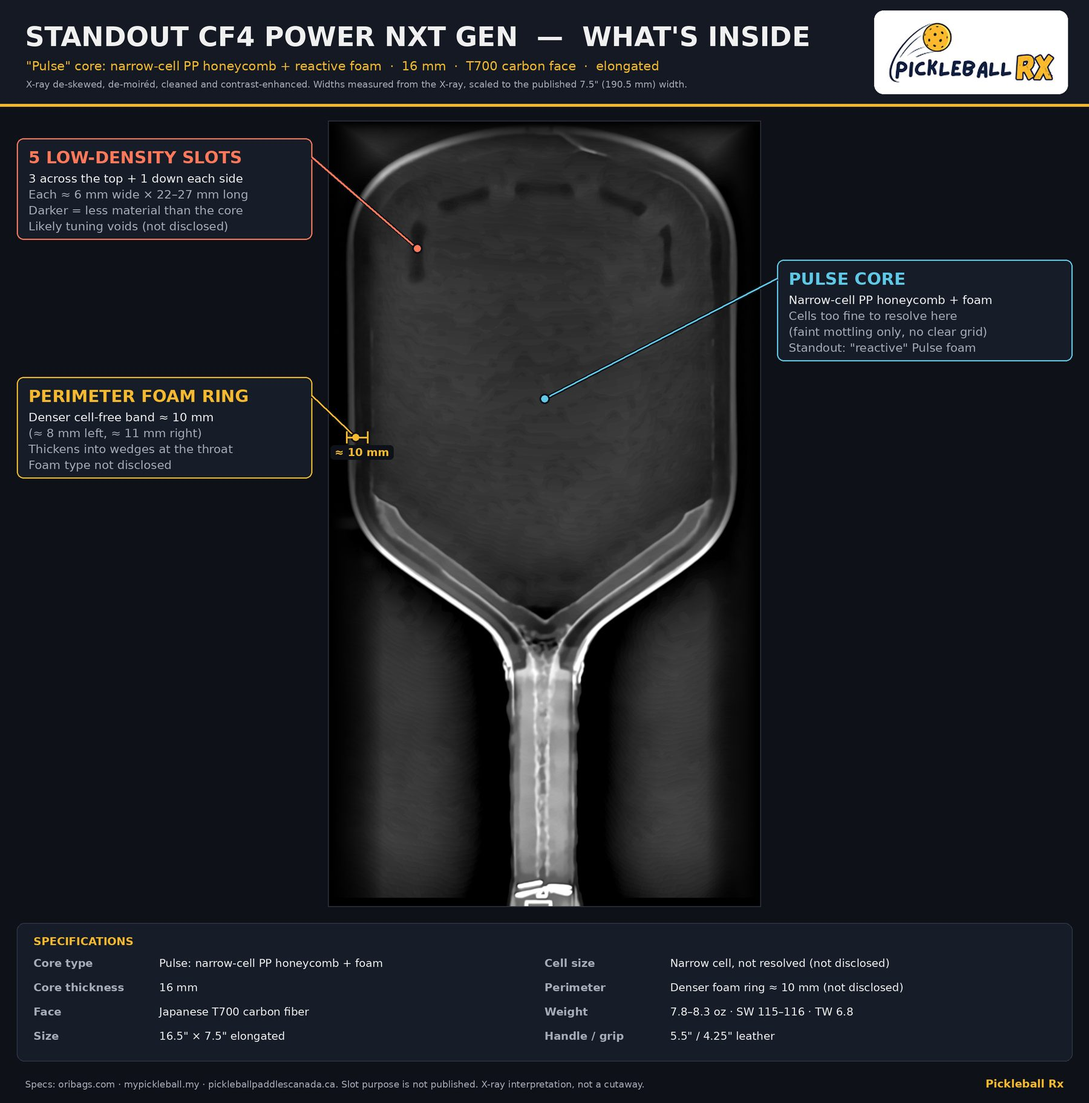
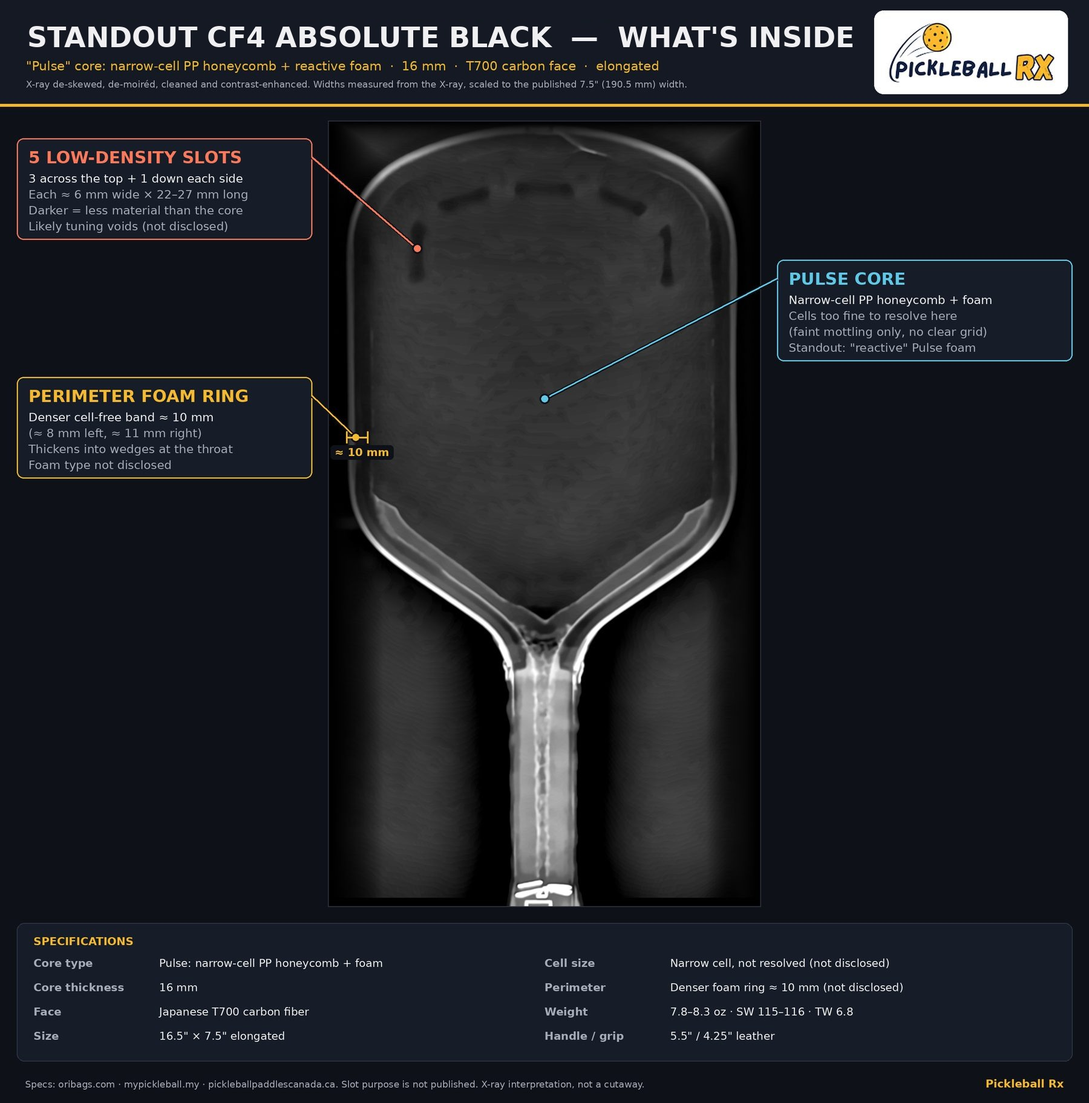
Rename Standout CF4 to CF4 Absolute Black and add its photo
Claude-Session: https://claude.ai/code/session_01XzsJoZS1BWgMRK1jmDZ5zc

Changed region(s): [[0.0311, 0.0, 0.7778, 0.0625]]

diff --git a/site/best.html b/site/best.html
@@ -38,7 +38,7 @@
   <p class="section-lead">Our favorite paddles by core type, picked by the Pickleball RX team after X-rays, microscope scans, spin tests and a lot of games. Tap any badge to see the lab results behind a pick.</p>
   <div class="chips"><a href="#epp">EPP foam</a><a href="#mpp">MPP foam</a><a href="#gen3">Gen 3</a><a href="#foreign">Foreign picks</a><a href="#canadian">Canadian picks</a><a href="#supa-senpai">Supasenpai's picks</a></div>
 </section>
-<section id="epp" style="padding-top:10px"><h2>EPP foam</h2><p class="section-lead">Paddles with an EPP foam core.</p><div class="lb-grid"><div class="lb-item"><div class="lb-rank">1</div><img class="lb-thumb" src="assets/paddles/gearbox-pressure-x-8e.jpg" alt="Gearbox Pressure X 8E" loading="lazy" style="object-fit:contain"><div style="min-width:0"><div class="muted" style="font-size:.75rem;text-transform:uppercase;letter-spacing:.06em;font-weight:700">Gearbox</div><div style="font-weight:800;font-size:1.05rem;line-height:1.25">Pressure X 8E</div><div class="badges" style="margin-top:6px"><a class="badge" href="xray/gearbox-pressure-x-8e.html">X-ray</a><a class="badge" href="spin.html#gearbox-pressure-xe">2,190 RPM</a><a class="badge" href="grit.html#gearbox-pressure-x-8e">Grit</a><a class="badge" href="specs.html#gearbox-8e">Specs</a></div></div></div><div class="lb-item"><div class="lb-rank">2</div><img class="lb-thumb" src="assets/paddles/product/grit-e2-cf.jpg" alt="Grit E2-CF" loading="lazy" style="object-fit:contain"><div style="min-width:0"><div class="muted" style="font-size:.75rem;text-transform:uppercase;letter-spacing:.06em;font-weight:700">Grit</div><div style="font-weight:800;font-size:1.05rem;line-height:1.25">E2-CF</div><div class="badges" style="margin-top:6px"><a class="badge" href="xray/grit-e2-cf.html">X-ray</a><a class="badge" href="spin.html#grit-e2cf">2,020 RPM</a></div><div style="font-size:.82rem;margin-top:6px">Code <strong>PBRX</strong> &middot; 10% off at <a href="https://www.grit-shop.com/" rel="sponsored noopener">Grit</a></div><div style="font-size:.82rem;margin-top:4px"><a href="grit-pickleball.html">Brand spotlight</a></div></div></div><div class="lb-item"><div class="lb-rank">3</div><img class="lb-thumb" src="assets/paddles/product/evolv-origin.jpg" alt="Evolv Origin Elongated" loading="lazy" style="object-fit:contain"><div style="min-width:0"><div class="muted" style="font-size:.75rem;text-transform:uppercase;letter-spacing:.06em;font-weight:700">Evolv</div><div style="font-weight:800;font-size:1.05rem;line-height:1.25">Origin Elongated</div><div class="badges" style="margin-top:6px"><a class="badge" href="xray/evolv-origin.html">X-ray</a><a class="badge" href="spin.html#evolv-origin">1,875 RPM</a><a class="badge" href="grit.html#evolv">Grit</a></div><div style="font-size:.82rem;margin-top:6px">Code <strong>PBRX</strong> &middot; 15% off at <a href="https://evolvpickleball.com/" rel="sponsored noopener">Evolv</a></div><div style="font-size:.82rem;margin-top:4px"><a href="evolv-pickleball.html">Brand spotlight</a></div></div></div><div class="lb-item"><div class="lb-rank">4</div><img class="lb-thumb" src="assets/paddles/honolulu-j6cr.jpg" alt="Honolulu J6CR" loading="lazy" style="object-fit:contain"><div style="min-width:0"><div class="muted" style="font-size:.75rem;text-transform:uppercase;letter-spacing:.06em;font-weight:700">Honolulu</div><div style="font-weight:800;font-size:1.05rem;line-height:1.25">J6CR</div><div class="badges" style="margin-top:6px"><a class="badge" href="xray/honolulu-j6cr.html">X-ray</a><a class="badge" href="spin.html#honolulu-j6cr">1,805 RPM</a><a class="badge" href="grit.html#honolulu-j6cr">Grit</a></div></div></div><div class="lb-item"><div class="lb-rank">5</div><img class="lb-thumb" src="assets/paddles/spartus-spitfire.jpg" alt="Spartus Spitfire" loading="lazy" style="object-fit:contain"><div style="min-width:0"><div class="muted" style="font-size:.75rem;text-transform:uppercase;letter-spacing:.06em;font-weight:700">Spartus</div><div style="font-weight:800;font-size:1.05rem;line-height:1.25">Spitfire</div><div class="badges" style="margin-top:6px"><a class="badge" href="xray/spartus-spitfire.html">X-ray</a><a class="badge" href="spin.html#spartus-spitfire">1,830 RPM</a><a class="badge" href="grit.html#spartus-spitfire">Grit</a></div></div></div><div class="lb-item"><div class="lb-rank">6</div><img class="lb-thumb" src="assets/paddles/facolos-elite-x-v2-0.jpg" alt="Facolos Elite X V2.0" loading="lazy" style="object-fit:contain"><div style="min-width:0"><div class="muted" style="font-size:.75rem;text-transform:uppercase;letter-spacing:.06em;font-weight:700">Facolos</div><div style="font-weight:800;font-size:1.05rem;line-height:1.25">Elite X V2.0</div><div class="badges" style="margin-top:6px"><a class="badge" href="xray/facolos-elite-x-2-0.html">X-ray</a></div></div></div></div></section><section id="mpp" style="padding-top:10px"><h2>MPP foam</h2><p class="section-lead">Paddles with an MPP foam core.</p><div class="lb-grid"><div class="lb-item"><div class="lb-rank">1</div><img class="lb-thumb" src="assets/paddles/gearbox-pressure-x-8m.jpg" alt="Gearbox Pressure X 8M" loading="lazy" style="object-fit:contain"><div style="min-width:0"><div class="muted" style="font-size:.75rem;text-transform:uppercase;letter-spacing:.06em;font-weight:700">Gearbox</div><div style="font-weight:800;font-size:1.05rem;line-height:1.25">Pressure X 8M</div><div class="badges" style="margin-top:6px"><a class="badge" href="xray/gearbox-pressure-xm.html">X-ray</a><a class="badge" href="spin.html#gearbox-pressure-x-m">2,045 RPM</a><a class="badge" href="specs.html#gearbox-8m">Specs</a></div></div></div><div class="lb-item"><div class="lb-rank">2</div><img class="lb-thumb" src="assets/paddles/speedup-tide-14-hybrid.jpg" alt="Speedup Tide 14 Hybrid" loading="lazy" style="object-fit:contain"><div style="min-width:0"><div class="muted" style="font-size:.75rem;text-transform:uppercase;letter-spacing:.06em;font-weight:700">Speedup</div><div style="font-weight:800;font-size:1.05rem;line-height:1.25">Tide 14 Hybrid</div><div class="badges" style="margin-top:6px"><a class="badge" href="xray/speedup-tide.html">X-ray</a><a class="badge" href="spin.html#speed-up-tide">1,935 RPM</a><a class="badge" href="grit.html#speed-up-tide">Grit</a></div><div class="muted" style="font-size:.78rem;margin-top:4px">X-ray is of the Tide Elongated</div><div style="font-size:.82rem;margin-top:6px">Code <strong>PBRX</strong> &middot; 10% off at <a href="https://speeduppickle.com/" rel="sponsored noopener">Speedup</a></div><div style="font-size:.82rem;margin-top:4px"><a href="speedup-pickleball.html">Brand spotlight</a></div></div></div><div class="lb-item"><div class="lb-rank">3</div><img class="lb-thumb" src="assets/paddles/product/rpm-jade.jpg" alt="RPM Jade" loading="lazy" style="object-fit:contain"><div style="min-width:0"><div class="muted" style="font-size:.75rem;text-transform:uppercase;letter-spacing:.06em;font-weight:700">RPM</div><div style="font-weight:800;font-size:1.05rem;line-height:1.25">Jade</div><div class="badges" style="margin-top:6px"><a class="badge" href="xray/rpm-jade.html">X-ray</a><a class="badge" href="spin.html#rpm-jade">1,785 RPM</a><a class="badge" href="grit.html#rpm-jade">Grit</a><a class="badge" href="specs.html#rpm-jade">Specs</a></div><div style="font-size:.82rem;margin-top:6px">Code <strong>PBRX</strong> &middot; 15% off at <a href="https://rpmpb.com/" rel="sponsored noopener">RPM</a></div></div></div><div class="lb-item"><div class="lb-rank">4</div><img class="lb-thumb" src="assets/paddles/product/luzz-inferno-2.jpg" alt="Luzz Inferno 2" loading="lazy" style="object-fit:contain"><div style="min-width:0"><div class="muted" style="font-size:.75rem;text-transform:uppercase;letter-spacing:.06em;font-weight:700">Luzz</div><div style="font-weight:800;font-size:1.05rem;line-height:1.25">Inferno 2</div><div class="badges" style="margin-top:6px"><a class="badge" href="xray/luzz-inferno-2.html">X-ray</a><a class="badge" href="spin.html#luzz-inferno-m2">1,745 RPM</a><a class="badge" href="grit.html#luzz-inferno2">Grit</a></div><div style="font-size:.82rem;margin-top:6px">Code <strong>PBRX</strong> &middot; 15% off at <a href="https://luzzpickleball.com/" rel="sponsored noopener">Luzz</a></div></div></div><div class="lb-item"><div class="lb-rank">5</div><img class="lb-thumb" src="assets/paddles/product/e6-ignis.jpg" alt="E6 Ignis" loading="lazy" style="object-fit:contain"><div style="min-width:0"><div class="muted" style="font-size:.75rem;text-transform:uppercase;letter-spacing:.06em;font-weight:700">E6</div><div style="font-weight:800;font-size:1.05rem;line-height:1.25">Ignis</div><div class="badges" style="margin-top:6px"><a class="badge" href="xray/e6-ignis.html">X-ray</a><a class="badge" href="grit.html#e6-ignis">Grit</a></div></div></div><div class="lb-item"><div class="lb-rank">6</div><img class="lb-thumb" src="assets/paddles/product/kamito-alpha-x.jpg" alt="Kamito Alpha X" loading="lazy" style="object-fit:contain"><div style="min-width:0"><div class="muted" style="font-size:.75rem;text-transform:uppercase;letter-spacing:.06em;font-weight:700">Kamito</div><div style="font-weight:800;font-size:1.05rem;line-height:1.25">Alpha X</div><div class="badges" style="margin-top:6px"><a class="badge" href="xray/kamito-alpha-x.html">X-ray</a></div></div></div></div></section><section id="gen3" style="padding-top:10px"><h2>Gen 3</h2><p class="section-lead">Honeycomb core with a foam perimeter.</p><div class="lb-grid"><div class="lb-item"><div class="lb-rank">1</div><img class="lb-thumb" src="assets/paddles/sypik-triton-5.jpg" alt="Sypik Triton 5" loading="lazy" style="object-fit:contain"><div style="min-width:0"><div class="muted" style="font-size:.75rem;text-transform:uppercase;letter-spacing:.06em;font-weight:700">Sypik</div><div style="font-weight:800;font-size:1.05rem;line-height:1.25">Triton 5</div><div class="badges" style="margin-top:6px"><a class="badge" href="xray/sypik-triton-5.html">X-ray</a><a class="badge" href="grit.html#sypik-triton-5">Grit</a><a class="badge" href="specs.html#sypik-triton">Specs</a></div></div></div><div class="lb-item"><div class="lb-rank">2</div><img class="lb-thumb" src="assets/paddles/pact-teflon-evolve-te16.jpg" alt="PACT Teflon Evolve TE16" loading="lazy" style="object-fit:contain"><div style="min-width:0"><div class="muted" style="font-size:.75rem;text-transform:uppercase;letter-spacing:.06em;font-weight:700">PACT</div><div style="font-weight:800;font-size:1.05rem;line-height:1.25">Teflon Evolve TE16</div><div class="badges" style="margin-top:6px"><a class="badge" href="xray/pact-teflon.html">X-ray</a><a class="badge" href="grit.html#pact-teflon-evolve">Grit</a></div></div></div><div class="lb-item"><div class="lb-rank">3</div><img class="lb-thumb" src="assets/paddles/product/proton-project-coyote.jpg" alt="Proton Project Coyote" loading="lazy" style="object-fit:contain"><div style="min-width:0"><div class="muted" style="font-size:.75rem;text-transform:uppercase;letter-spacing:.06em;font-weight:700">Proton</div><div style="font-weight:800;font-size:1.05rem;line-height:1.25">Project Coyote</div><div class="badges" style="margin-top:6px"><a class="badge" href="xray/proton-project-coyote.html">X-ray</a><a class="badge" href="grit.html#proton-project-coyote">Grit</a><a class="badge" href="specs.html#proton-coyote">Specs</a></div></div></div><div class="lb-item"><div class="lb-rank">4</div><img class="lb-thumb" src="assets/paddles/product/rpm-v2.jpg" alt="RPM V2" loading="lazy" style="object-fit:contain"><div style="min-width:0"><div class="muted" style="font-size:.75rem;text-transform:uppercase;letter-spacing:.06em;font-weight:700">RPM</div><div style="font-weight:800;font-size:1.05rem;line-height:1.25">V2</div><div class="badges" style="margin-top:6px"><a class="badge" href="xray/rpm-v2.html">X-ray</a></div><div style="font-size:.82rem;margin-top:6px">Code <strong>PBRX</strong> &middot; 15% off at <a href="https://rpmpb.com/" rel="sponsored noopener">RPM</a></div></div></div><div class="lb-item"><div class="lb-rank">5</div><img class="lb-thumb" src="assets/paddles/product/mehau-s5.jpg" alt="Mehau S5" loading="lazy" style="object-fit:contain"><div style="min-width:0"><div class="muted" style="font-size:.75rem;text-transform:uppercase;letter-spacing:.06em;font-weight:700">Mehau</div><div style="font-weight:800;font-size:1.05rem;line-height:1.25">S5</div><div class="badges" style="margin-top:6px"><a class="badge" href="xray/mehau-s5.html">X-ray</a><a class="badge" href="grit.html#mehau-s5">Grit</a></div></div></div><div class="lb-item"><div class="lb-rank">6</div><img class="lb-thumb" src="assets/paddles/product/zocker-aspire.jpg" alt="Zocker Aspire" loading="lazy" style="object-fit:contain"><div style="min-width:0"><div class="muted" style="font-size:.75rem;text-transform:uppercase;letter-spacing:.06em;font-weight:700">Zocker</div><div style="font-weight:800;font-size:1.05rem;line-height:1.25">Aspire</div><div class="badges" style="margin-top:6px"><a class="badge" href="xray/zocker-aspire.html">X-ray</a></div></div></div></div></section><section id="foreign" style="padding-top:10px"><h2>Foreign picks</h2><p class="section-lead">Five more favorites from the team.</p><div class="lb-grid"><div class="lb-item"><div class="lb-rank">1</div><img class="lb-thumb" src="assets/paddles/zcebra-gazelle.jpg" alt="Zcebra Gazelle" loading="lazy" style="object-fit:contain"><div style="min-width:0"><div class="muted" style="font-size:.75rem;text-transform:uppercase;letter-spacing:.06em;font-weight:700">Zcebra</div><div style="font-weight:800;font-size:1.05rem;line-height:1.25">Gazelle</div><div class="badges" style="margin-top:6px"><a class="badge" href="xray/zcebra-gazelle.html">X-ray</a><a class="badge" href="spin.html#zcebra-gazelle">1,640 RPM</a><a class="badge" href="grit.html#zcebra-gazelle">Grit</a></div></div></div><div class="lb-item"><div class="lb-rank">2</div><img class="lb-thumb" src="assets/paddles/pact-teflon-evolve-te16.jpg" alt="PACT Teflon Evolve TE16" loading="lazy" style="object-fit:contain"><div style="min-width:0"><div class="muted" style="font-size:.75rem;text-transform:uppercase;letter-spacing:.06em;font-weight:700">PACT</div><div style="font-weight:800;font-size:1.05rem;line-height:1.25">Teflon Evolve TE16</div><div class="badges" style="margin-top:6px"><a class="badge" href="xray/pact-teflon.html">X-ray</a><a class="badge" href="grit.html#pact-teflon-evolve">Grit</a></div></div></div><div class="lb-item"><div class="lb-rank">3</div><img class="lb-thumb" src="assets/xray/standout-cf4-labeled.jpg" alt="Standout CF4" loading="lazy" style="object-fit:cover"><div style="min-width:0"><div class="muted" style="font-size:.75rem;text-transform:uppercase;letter-spacing:.06em;font-weight:700">Standout</div><div style="font-weight:800;font-size:1.05rem;line-height:1.25">CF4</div><div class="badges" style="margin-top:6px"><a class="badge" href="xray/standout-cf4.html">X-ray</a></div></div></div><div class="lb-item"><div class="lb-rank">4</div><img class="lb-thumb" src="assets/paddles/product/kamito-alpha-x.jpg" alt="Kamito Alpha X" loading="lazy" style="object-fit:contain"><div style="min-width:0"><div class="muted" style="font-size:.75rem;text-transform:uppercase;letter-spacing:.06em;font-weight:700">Kamito</div><div style="font-weight:800;font-size:1.05rem;line-height:1.25">Alpha X</div><div class="badges" style="margin-top:6px"><a class="badge" href="xray/kamito-alpha-x.html">X-ray</a></div></div></div><div class="lb-item"><div class="lb-rank">5</div><img class="lb-thumb" src="assets/paddles/sypik-triton-5.jpg" alt="Sypik Triton 5" loading="lazy" style="object-fit:contain"><div style="min-width:0"><div class="muted" style="font-size:.75rem;text-transform:uppercase;letter-spacing:.06em;font-weight:700">Sypik</div><div style="font-weight:800;font-size:1.05rem;line-height:1.25">Triton 5</div><div class="badges" style="margin-top:6px"><a class="badge" href="xray/sypik-triton-5.html">X-ray</a><a class="badge" href="grit.html#sypik-triton-5">Grit</a><a class="badge" href="specs.html#sypik-triton">Specs</a></div></div></div></div></section>
+<section id="epp" style="padding-top:10px"><h2>EPP foam</h2><p class="section-lead">Paddles with an EPP foam core.</p><div class="lb-grid"><div class="lb-item"><div class="lb-rank">1</div><img class="lb-thumb" src="assets/paddles/gearbox-pressure-x-8e.jpg" alt="Gearbox Pressure X 8E" loading="lazy" style="object-fit:contain"><div style="min-width:0"><div class="muted" style="font-size:.75rem;text-transform:uppercase;letter-spacing:.06em;font-weight:700">Gearbox</div><div style="font-weight:800;font-size:1.05rem;line-height:1.25">Pressure X 8E</div><div class="badges" style="margin-top:6px"><a class="badge" href="xray/gearbox-pressure-x-8e.html">X-ray</a><a class="badge" href="spin.html#gearbox-pressure-xe">2,190 RPM</a><a class="badge" href="grit.html#gearbox-pressure-x-8e">Grit</a><a class="badge" href="specs.html#gearbox-8e">Specs</a></div></div></div><div class="lb-item"><div class="lb-rank">2</div><img class="lb-thumb" src="assets/paddles/product/grit-e2-cf.jpg" alt="Grit E2-CF" loading="lazy" style="object-fit:contain"><div style="min-width:0"><div class="muted" style="font-size:.75rem;text-transform:uppercase;letter-spacing:.06em;font-weight:700">Grit</div><div style="font-weight:800;font-size:1.05rem;line-height:1.25">E2-CF</div><div class="badges" style="margin-top:6px"><a class="badge" href="xray/grit-e2-cf.html">X-ray</a><a class="badge" href="spin.html#grit-e2cf">2,020 RPM</a></div><div style="font-size:.82rem;margin-top:6px">Code <strong>PBRX</strong> &middot; 10% off at <a href="https://www.grit-shop.com/" rel="sponsored noopener">Grit</a></div><div style="font-size:.82rem;margin-top:4px"><a href="grit-pickleball.html">Brand spotlight</a></div></div></div><div class="lb-item"><div class="lb-rank">3</div><img class="lb-thumb" src="assets/paddles/product/evolv-origin.jpg" alt="Evolv Origin Elongated" loading="lazy" style="object-fit:contain"><div style="min-width:0"><div class="muted" style="font-size:.75rem;text-transform:uppercase;letter-spacing:.06em;font-weight:700">Evolv</div><div style="font-weight:800;font-size:1.05rem;line-height:1.25">Origin Elongated</div><div class="badges" style="margin-top:6px"><a class="badge" href="xray/evolv-origin.html">X-ray</a><a class="badge" href="spin.html#evolv-origin">1,875 RPM</a><a class="badge" href="grit.html#evolv">Grit</a></div><div style="font-size:.82rem;margin-top:6px">Code <strong>PBRX</strong> &middot; 15% off at <a href="https://evolvpickleball.com/" rel="sponsored noopener">Evolv</a></div><div style="font-size:.82rem;margin-top:4px"><a href="evolv-pickleball.html">Brand spotlight</a></div></div></div><div class="lb-item"><div class="lb-rank">4</div><img class="lb-thumb" src="assets/paddles/honolulu-j6cr.jpg" alt="Honolulu J6CR" loading="lazy" style="object-fit:contain"><div style="min-width:0"><div class="muted" style="font-size:.75rem;text-transform:uppercase;letter-spacing:.06em;font-weight:700">Honolulu</div><div style="font-weight:800;font-size:1.05rem;line-height:1.25">J6CR</div><div class="badges" style="margin-top:6px"><a class="badge" href="xray/honolulu-j6cr.html">X-ray</a><a class="badge" href="spin.html#honolulu-j6cr">1,805 RPM</a><a class="badge" href="grit.html#honolulu-j6cr">Grit</a></div></div></div><div class="lb-item"><div class="lb-rank">5</div><img class="lb-thumb" src="assets/paddles/spartus-spitfire.jpg" alt="Spartus Spitfire" loading="lazy" style="object-fit:contain"><div style="min-width:0"><div class="muted" style="font-size:.75rem;text-transform:uppercase;letter-spacing:.06em;font-weight:700">Spartus</div><div style="font-weight:800;font-size:1.05rem;line-height:1.25">Spitfire</div><div class="badges" style="margin-top:6px"><a class="badge" href="xray/spartus-spitfire.html">X-ray</a><a class="badge" href="spin.html#spartus-spitfire">1,830 RPM</a><a class="badge" href="grit.html#spartus-spitfire">Grit</a></div></div></div><div class="lb-item"><div class="lb-rank">6</div><img class="lb-thumb" src="assets/paddles/facolos-elite-x-v2-0.jpg" alt="Facolos Elite X V2.0" loading="lazy" style="object-fit:contain"><div style="min-width:0"><div class="muted" style="font-size:.75rem;text-transform:uppercase;letter-spacing:.06em;font-weight:700">Facolos</div><div style="font-weight:800;font-size:1.05rem;line-height:1.25">Elite X V2.0</div><div class="badges" style="margin-top:6px"><a class="badge" href="xray/facolos-elite-x-2-0.html">X-ray</a></div></div></div></div></section><section id="mpp" style="padding-top:10px"><h2>MPP foam</h2><p class="section-lead">Paddles with an MPP foam core.</p><div class="lb-grid"><div class="lb-item"><div class="lb-rank">1</div><img class="lb-thumb" src="assets/paddles/gearbox-pressure-x-8m.jpg" alt="Gearbox Pressure X 8M" loading="lazy" style="object-fit:contain"><div style="min-width:0"><div class="muted" style="font-size:.75rem;text-transform:uppercase;letter-spacing:.06em;font-weight:700">Gearbox</div><div style="font-weight:800;font-size:1.05rem;line-height:1.25">Pressure X 8M</div><div class="badges" style="margin-top:6px"><a class="badge" href="xray/gearbox-pressure-xm.html">X-ray</a><a class="badge" href="spin.html#gearbox-pressure-x-m">2,045 RPM</a><a class="badge" href="specs.html#gearbox-8m">Specs</a></div></div></div><div class="lb-item"><div class="lb-rank">2</div><img class="lb-thumb" src="assets/paddles/speedup-tide-14-hybrid.jpg" alt="Speedup Tide 14 Hybrid" loading="lazy" style="object-fit:contain"><div style="min-width:0"><div class="muted" style="font-size:.75rem;text-transform:uppercase;letter-spacing:.06em;font-weight:700">Speedup</div><div style="font-weight:800;font-size:1.05rem;line-height:1.25">Tide 14 Hybrid</div><div class="badges" style="margin-top:6px"><a class="badge" href="xray/speedup-tide.html">X-ray</a><a class="badge" href="spin.html#speed-up-tide">1,935 RPM</a><a class="badge" href="grit.html#speed-up-tide">Grit</a></div><div class="muted" style="font-size:.78rem;margin-top:4px">X-ray is of the Tide Elongated</div><div style="font-size:.82rem;margin-top:6px">Code <strong>PBRX</strong> &middot; 10% off at <a href="https://speeduppickle.com/" rel="sponsored noopener">Speedup</a></div><div style="font-size:.82rem;margin-top:4px"><a href="speedup-pickleball.html">Brand spotlight</a></div></div></div><div class="lb-item"><div class="lb-rank">3</div><img class="lb-thumb" src="assets/paddles/product/rpm-jade.jpg" alt="RPM Jade" loading="lazy" style="object-fit:contain"><div style="min-width:0"><div class="muted" style="font-size:.75rem;text-transform:uppercase;letter-spacing:.06em;font-weight:700">RPM</div><div style="font-weight:800;font-size:1.05rem;line-height:1.25">Jade</div><div class="badges" style="margin-top:6px"><a class="badge" href="xray/rpm-jade.html">X-ray</a><a class="badge" href="spin.html#rpm-jade">1,785 RPM</a><a class="badge" href="grit.html#rpm-jade">Grit</a><a class="badge" href="specs.html#rpm-jade">Specs</a></div><div style="font-size:.82rem;margin-top:6px">Code <strong>PBRX</strong> &middot; 15% off at <a href="https://rpmpb.com/" rel="sponsored noopener">RPM</a></div></div></div><div class="lb-item"><div class="lb-rank">4</div><img class="lb-thumb" src="assets/paddles/product/luzz-inferno-2.jpg" alt="Luzz Inferno 2" loading="lazy" style="object-fit:contain"><div style="min-width:0"><div class="muted" style="font-size:.75rem;text-transform:uppercase;letter-spacing:.06em;font-weight:700">Luzz</div><div style="font-weight:800;font-size:1.05rem;line-height:1.25">Inferno 2</div><div class="badges" style="margin-top:6px"><a class="badge" href="xray/luzz-inferno-2.html">X-ray</a><a class="badge" href="spin.html#luzz-inferno-m2">1,745 RPM</a><a class="badge" href="grit.html#luzz-inferno2">Grit</a></div><div style="font-size:.82rem;margin-top:6px">Code <strong>PBRX</strong> &middot; 15% off at <a href="https://luzzpickleball.com/" rel="sponsored noopener">Luzz</a></div></div></div><div class="lb-item"><div class="lb-rank">5</div><img class="lb-thumb" src="assets/paddles/product/e6-ignis.jpg" alt="E6 Ignis" loading="lazy" style="object-fit:contain"><div style="min-width:0"><div class="muted" style="font-size:.75rem;text-transform:uppercase;letter-spacing:.06em;font-weight:700">E6</div><div style="font-weight:800;font-size:1.05rem;line-height:1.25">Ignis</div><div class="badges" style="margin-top:6px"><a class="badge" href="xray/e6-ignis.html">X-ray</a><a class="badge" href="grit.html#e6-ignis">Grit</a></div></div></div><div class="lb-item"><div class="lb-rank">6</div><img class="lb-thumb" src="assets/paddles/product/kamito-alpha-x.jpg" alt="Kamito Alpha X" loading="lazy" style="object-fit:contain"><div style="min-width:0"><div class="muted" style="font-size:.75rem;text-transform:uppercase;letter-spacing:.06em;font-weight:700">Kamito</div><div style="font-weight:800;font-size:1.05rem;line-height:1.25">Alpha X</div><div class="badges" style="margin-top:6px"><a class="badge" href="xray/kamito-alpha-x.html">X-ray</a></div></div></div></div></section><section id="gen3" style="padding-top:10px"><h2>Gen 3</h2><p class="section-lead">Honeycomb core with a foam perimeter.</p><div class="lb-grid"><div class="lb-item"><div class="lb-rank">1</div><img class="lb-thumb" src="assets/paddles/sypik-triton-5.jpg" alt="Sypik Triton 5" loading="lazy" style="object-fit:contain"><div style="min-width:0"><div class="muted" style="font-size:.75rem;text-transform:uppercase;letter-spacing:.06em;font-weight:700">Sypik</div><div style="font-weight:800;font-size:1.05rem;line-height:1.25">Triton 5</div><div class="badges" style="margin-top:6px"><a class="badge" href="xray/sypik-triton-5.html">X-ray</a><a class="badge" href="grit.html#sypik-triton-5">Grit</a><a class="badge" href="specs.html#sypik-triton">Specs</a></div></div></div><div class="lb-item"><div class="lb-rank">2</div><img class="lb-thumb" src="assets/paddles/pact-teflon-evolve-te16.jpg" alt="PACT Teflon Evolve TE16" loading="lazy" style="object-fit:contain"><div style="min-width:0"><div class="muted" style="font-size:.75rem;text-transform:uppercase;letter-spacing:.06em;font-weight:700">PACT</div><div style="font-weight:800;font-size:1.05rem;line-height:1.25">Teflon Evolve TE16</div><div class="badges" style="margin-top:6px"><a class="badge" href="xray/pact-teflon.html">X-ray</a><a class="badge" href="grit.html#pact-teflon-evolve">Grit</a></div></div></div><div class="lb-item"><div class="lb-rank">3</div><img class="lb-thumb" src="assets/paddles/product/proton-project-coyote.jpg" alt="Proton Project Coyote" loading="lazy" style="object-fit:contain"><div style="min-width:0"><div class="muted" style="font-size:.75rem;text-transform:uppercase;letter-spacing:.06em;font-weight:700">Proton</div><div style="font-weight:800;font-size:1.05rem;line-height:1.25">Project Coyote</div><div class="badges" style="margin-top:6px"><a class="badge" href="xray/proton-project-coyote.html">X-ray</a><a class="badge" href="grit.html#proton-project-coyote">Grit</a><a class="badge" href="specs.html#proton-coyote">Specs</a></div></div></div><div class="lb-item"><div class="lb-rank">4</div><img class="lb-thumb" src="assets/paddles/product/rpm-v2.jpg" alt="RPM V2" loading="lazy" style="object-fit:contain"><div style="min-width:0"><div class="muted" style="font-size:.75rem;text-transform:uppercase;letter-spacing:.06em;font-weight:700">RPM</div><div style="font-weight:800;font-size:1.05rem;line-height:1.25">V2</div><div class="badges" style="margin-top:6px"><a class="badge" href="xray/rpm-v2.html">X-ray</a></div><div style="font-size:.82rem;margin-top:6px">Code <strong>PBRX</strong> &middot; 15% off at <a href="https://rpmpb.com/" rel="sponsored noopener">RPM</a></div></div></div><div class="lb-item"><div class="lb-rank">5</div><img class="lb-thumb" src="assets/paddles/product/mehau-s5.jpg" alt="Mehau S5" loading="lazy" style="object-fit:contain"><div style="min-width:0"><div class="muted" style="font-size:.75rem;text-transform:uppercase;letter-spacing:.06em;font-weight:700">Mehau</div><div style="font-weight:800;font-size:1.05rem;line-height:1.25">S5</div><div class="badges" style="margin-top:6px"><a class="badge" href="xray/mehau-s5.html">X-ray</a><a class="badge" href="grit.html#mehau-s5">Grit</a></div></div></div><div class="lb-item"><div class="lb-rank">6</div><img class="lb-thumb" src="assets/paddles/product/zocker-aspire.jpg" alt="Zocker Aspire" loading="lazy" style="object-fit:contain"><div style="min-width:0"><div class="muted" style="font-size:.75rem;text-transform:uppercase;letter-spacing:.06em;font-weight:700">Zocker</div><div style="font-weight:800;font-size:1.05rem;line-height:1.25">Aspire</div><div class="badges" style="margin-top:6px"><a class="badge" href="xray/zocker-aspire.html">X-ray</a></div></div></div></div></section><section id="foreign" style="padding-top:10px"><h2>Foreign picks</h2><p class="section-lead">Five more favorites from the team.</p><div class="lb-grid"><div class="lb-item"><div class="lb-rank">1</div><img class="lb-thumb" src="assets/paddles/zcebra-gazelle.jpg" alt="Zcebra Gazelle" loading="lazy" style="object-fit:contain"><div style="min-width:0"><div class="muted" style="font-size:.75rem;text-transform:uppercase;letter-spacing:.06em;font-weight:700">Zcebra</div><div style="font-weight:800;font-size:1.05rem;line-height:1.25">Gazelle</div><div class="badges" style="margin-top:6px"><a class="badge" href="xray/zcebra-gazelle.html">X-ray</a><a class="badge" href="spin.html#zcebra-gazelle">1,640 RPM</a><a class="badge" href="grit.html#zcebra-gazelle">Grit</a></div></div></div><div class="lb-item"><div class="lb-rank">2</div><img class="lb-thumb" src="assets/paddles/pact-teflon-evolve-te16.jpg" alt="PACT Teflon Evolve TE16" loading="lazy" style="object-fit:contain"><div style="min-width:0"><div class="muted" style="font-size:.75rem;text-transform:uppercase;letter-spacing:.06em;font-weight:700">PACT</div><div style="font-weight:800;font-size:1.05rem;line-height:1.25">Teflon Evolve TE16</div><div class="badges" style="margin-top:6px"><a class="badge" href="xray/pact-teflon.html">X-ray</a><a class="badge" href="grit.html#pact-teflon-evolve">Grit</a></div></div></div><div class="lb-item"><div class="lb-rank">3</div><img class="lb-thumb" src="assets/paddles/product/standout-cf4.jpg" alt="Standout CF4 Absolute Black" loading="lazy" style="object-fit:contain"><div style="min-width:0"><div class="muted" style="font-size:.75rem;text-transform:uppercase;letter-spacing:.06em;font-weight:700">Standout</div><div style="font-weight:800;font-size:1.05rem;line-height:1.25">CF4 Absolute Black</div><div class="badges" style="margin-top:6px"><a class="badge" href="xray/standout-cf4.html">X-ray</a></div></div></div><div class="lb-item"><div class="lb-rank">4</div><img class="lb-thumb" src="assets/paddles/product/kamito-alpha-x.jpg" alt="Kamito Alpha X" loading="lazy" style="object-fit:contain"><div style="min-width:0"><div class="muted" style="font-size:.75rem;text-transform:uppercase;letter-spacing:.06em;font-weight:700">Kamito</div><div style="font-weight:800;font-size:1.05rem;line-height:1.25">Alpha X</div><div class="badges" style="margin-top:6px"><a class="badge" href="xray/kamito-alpha-x.html">X-ray</a></div></div></div><div class="lb-item"><div class="lb-rank">5</div><img class="lb-thumb" src="assets/paddles/sypik-triton-5.jpg" alt="Sypik Triton 5" loading="lazy" style="object-fit:contain"><div style="min-width:0"><div class="muted" style="font-size:.75rem;text-transform:uppercase;letter-spacing:.06em;font-weight:700">Sypik</div><div style="font-weight:800;font-size:1.05rem;line-height:1.25">Triton 5</div><div class="badges" style="margin-top:6px"><a class="badge" href="xray/sypik-triton-5.html">X-ray</a><a class="badge" href="grit.html#sypik-triton-5">Grit</a><a class="badge" href="specs.html#sypik-triton">Specs</a></div></div></div></div></section>
 <section id="canadian" style="padding-top:10px">
   <div class="rev-head" style="margin-bottom:6px"><img class="rev-avatar" src="assets/reviewers/supasenpai.jpg" alt="Supasenpai" width="64" height="64" loading="lazy"><h2 style="margin:0">Top 5 Canadian paddles</h2></div>
   <p class="section-lead">We did not test these paddles. These picks come from our Canadian neighbor, reviewer <a href="https://supasenpai.com/pickleball-senpai/" rel="noopener">Supasenpai</a>, one of <a href="index.html#reviewers">our favorite reviewers</a>.</p>

diff --git a/site/xray/standout-cf4.html b/site/xray/standout-cf4.html
@@ -3,8 +3,8 @@
 <head>
 <meta charset="utf-8">
 <meta name="viewport" content="width=device-width, initial-scale=1">
-<title>Standout CF4 Power NXT Gen X-ray: what&#x27;s inside | PickleballRx</title>
-<meta name="description" content="Labeled X-ray of the Standout CF4 Power NXT Gen pickleball paddle: core, ring, cells and specs.">
+<title>Standout CF4 Absolute Black X-ray: what&#x27;s inside | PickleballRx</title>
+<meta name="description" content="Labeled X-ray of the Standout CF4 Absolute Black pickleball paddle: core, ring, cells and specs.">
 <link rel="preconnect" href="https://fonts.googleapis.com">
 <link rel="preconnect" href="https://fonts.gstatic.com" crossorigin>
 <link rel="stylesheet" href="https://fonts.googleapis.com/css2?family=Inter:wght@400;500;600;700;800&display=swap">
@@ -34,9 +34,9 @@
 
 <div class="review-hero"><div class="wrap">
   <div>
-    
+    <img class="product-shot" src="../assets/paddles/product/standout-cf4.jpg" alt="Standout CF4 Absolute Black" width="120" height="180">
     <div class="crumbs"><a href="../lab.html">X-Ray Rx</a> / Standout</div>
-    <h1>Standout CF4 Power NXT Gen X-ray</h1>
+    <h1>Standout CF4 Absolute Black X-ray</h1>
     <p class="muted" style="margin:0 0 14px">Pulse: narrow-cell PP honeycomb + foam. Denser foam ring ≈ 10 mm (not disclosed).</p>
     <div class="badges"><span class="badge">honeycomb</span></div>
     <div class="btn-row" style="margin-top:16px"><a class="btn" href="#xray">See the X-ray</a></div>
@@ -52,7 +52,7 @@
   
   <h2 id="xray">The X-ray</h2>
   <p class="muted" style="margin:0">Labels are our read of the X-ray, not a cutaway. Measurements are approximate. <a href="../disclaimers.html#xray">Disclaimers</a>.</p>
-  <figure class="lab-item" style="margin-top:12px"><a href="../assets/xray/standout-cf4-labeled.jpg"><img src="../assets/xray/standout-cf4-labeled.jpg" alt="Standout CF4 Power NXT Gen labeled X-ray with spec panel" style="aspect-ratio:auto;object-fit:contain;background:#fff"></a><figcaption><strong>Labeled X-ray</strong> &middot; tap to open full size</figcaption></figure>
+  <figure class="lab-item" style="margin-top:12px"><a href="../assets/xray/standout-cf4-labeled.jpg"><img src="../assets/xray/standout-cf4-labeled.jpg" alt="Standout CF4 Absolute Black labeled X-ray with spec panel" style="aspect-ratio:auto;object-fit:contain;background:#fff"></a><figcaption><strong>Labeled X-ray</strong> &middot; tap to open full size</figcaption></figure>
   <h3 style="margin-top:26px">More views</h3>
   <div class="lab-grid"><figure class="lab-item"><div class="lab-ph">Clean X-ray coming soon</div><figcaption><strong>Clean</strong></figcaption></figure><figure class="lab-item"><div class="lab-ph">Density estimate X-ray coming soon</div><figcaption><strong>Density estimate</strong></figcaption></figure></div>
   <h2 style="margin-top:34px">Specs</h2>

diff --git a/site/lab.html b/site/lab.html
@@ -303,10 +303,10 @@
   <h3><a href="xray/speedup-tide.html">Speedup Tide Elongated (14L)</a></h3>
   <p style="font-size:.93rem">MPP full foam (PureFeel)</p>
   <a class="more" href="xray/speedup-tide.html">See inside &rarr;</a>
-</article><article class="card xcard" data-tags="honeycomb" data-name="standout cf4 power nxt gen standout">
-  <a href="xray/standout-cf4.html"><img src="assets/xray/standout-cf4-labeled.jpg" alt="Standout CF4 Power NXT Gen X-ray" loading="lazy" style="aspect-ratio:4/3;object-fit:cover;border-radius:10px"></a>
+</article><article class="card xcard" data-tags="honeycomb" data-name="standout cf4 absolute black standout">
+  <a href="xray/standout-cf4.html"><img src="assets/xray/standout-cf4-labeled.jpg" alt="Standout CF4 Absolute Black X-ray" loading="lazy" style="aspect-ratio:4/3;object-fit:cover;border-radius:10px"></a>
   <div class="badges"><span class="badge">honeycomb</span></div>
-  <h3><a href="xray/standout-cf4.html">Standout CF4 Power NXT Gen</a></h3>
+  <h3><a href="xray/standout-cf4.html">Standout CF4 Absolute Black</a></h3>
   <p style="font-size:.93rem">Pulse: narrow-cell PP honeycomb + foam</p>
   <a class="more" href="xray/standout-cf4.html">See inside &rarr;</a>
 </article><article class="card xcard" data-tags="honeycomb" data-name="sypik triton 5 sypik">

diff --git a/data/xray.py b/data/xray.py
@@ -50,7 +50,7 @@ NAMES = {
  "rpm-v2": ("rpm-v2", "RPM V2 (Friction Pro V2)", "RPM"),
  "spartus-spitfire": ("spartus-spitfire", "Spartus Spitfire", "Spartus"),
  "speedup-tide-elongated": ("speedup-tide", "Speedup Tide Elongated (14L)", "Speedup"),
- "standout-cf4": ("standout-cf4", "Standout CF4 Power NXT Gen", "Standout"),
+ "standout-cf4": ("standout-cf4", "Standout CF4 Absolute Black", "Standout"),
  "sypik-triton-5": ("sypik-triton-5", "Sypik Triton 5", "Sypik"),
  "vanwin-alpha-control": ("vanwin-alpha-control", "Vanwin Alpha Control", "Vanwin"),
  "vanwin-alpha-power": ("vanwin-alpha-power", "Vanwin Alpha Power", "Vanwin"),

diff --git a/build.py b/build.py
@@ -591,7 +591,7 @@ TOP_PICKS = [
     ("foreign", "Foreign picks", "Five more favorites from the team.", [
         ("Zcebra", "Gazelle", "zcebra-gazelle", "Zcebra Gazelle", "Zcebra Gazelle", None, ""),
         ("PACT", "Teflon Evolve TE16", "pact-teflon", None, "PACT Teflon Evolve", None, ""),
-        ("Standout", "CF4", "standout-cf4", None, None, None, ""),
+        ("Standout", "CF4 Absolute Black", "standout-cf4", None, None, None, ""),
         ("Kamito", "Alpha X", "kamito-alpha-x", None, None, None, ""),
         ("Sypik", "Triton 5", "sypik-triton-5", None, "Sypik Triton 5", "sypik-triton", ""),
     ]),
